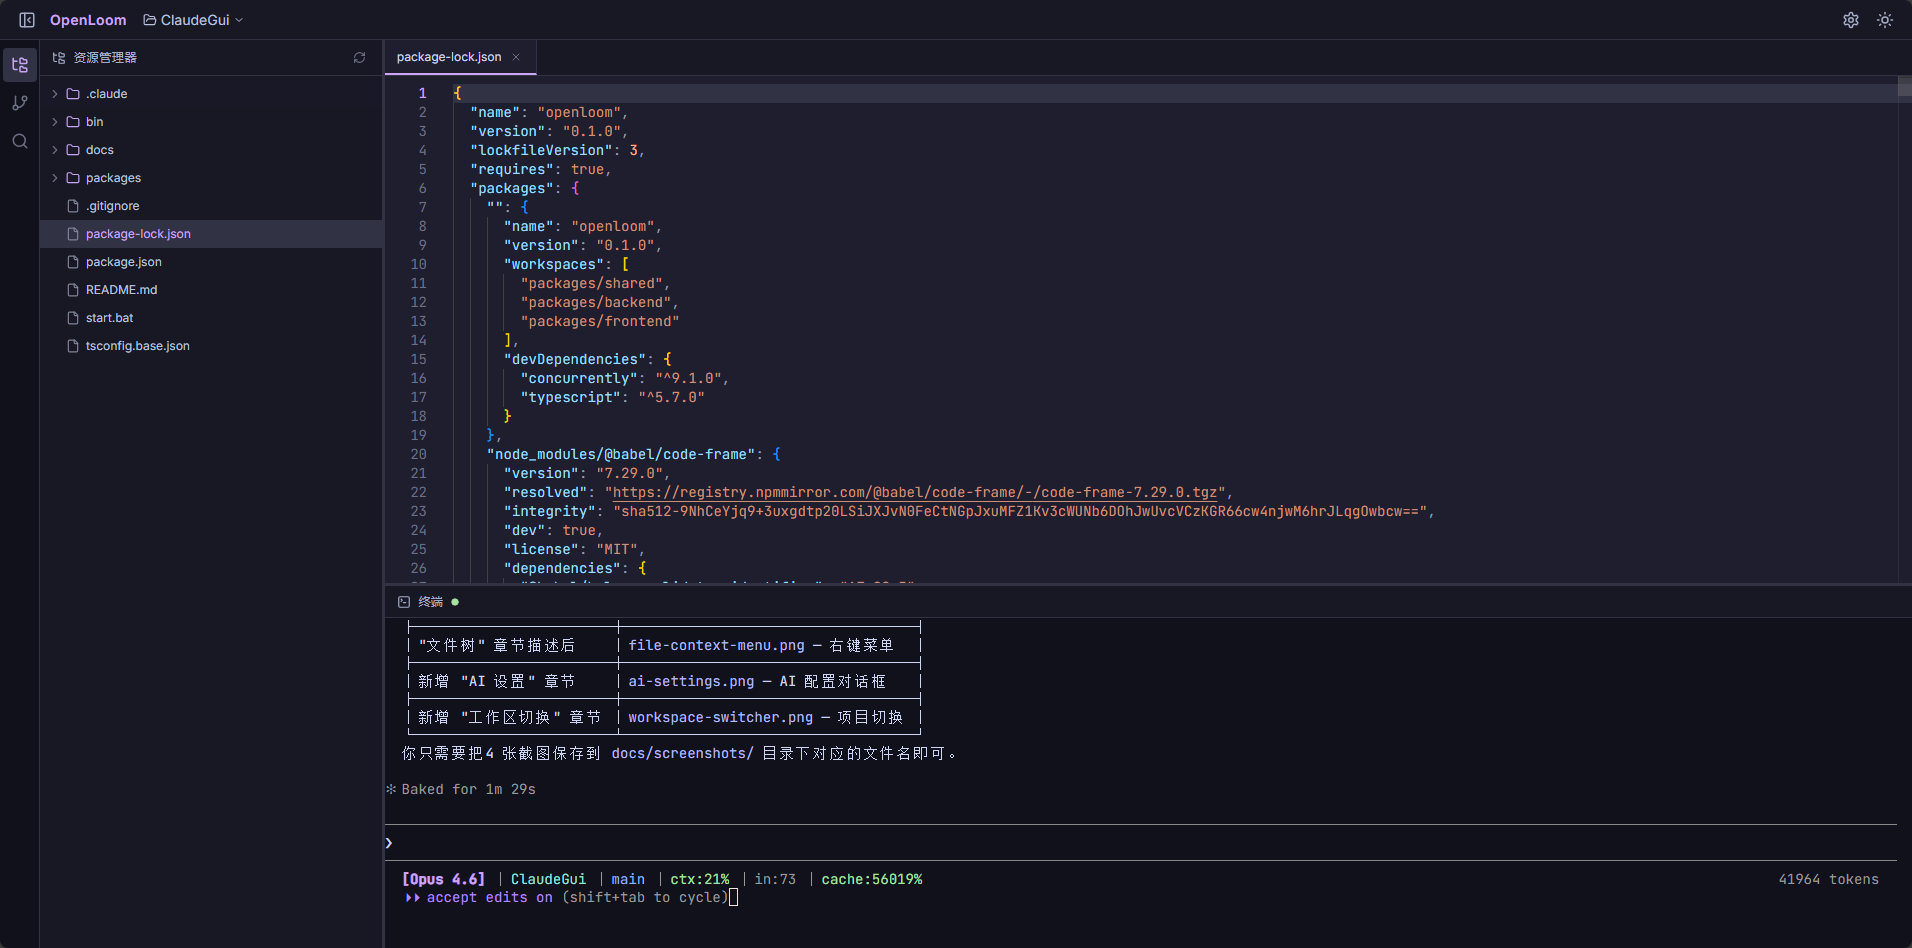
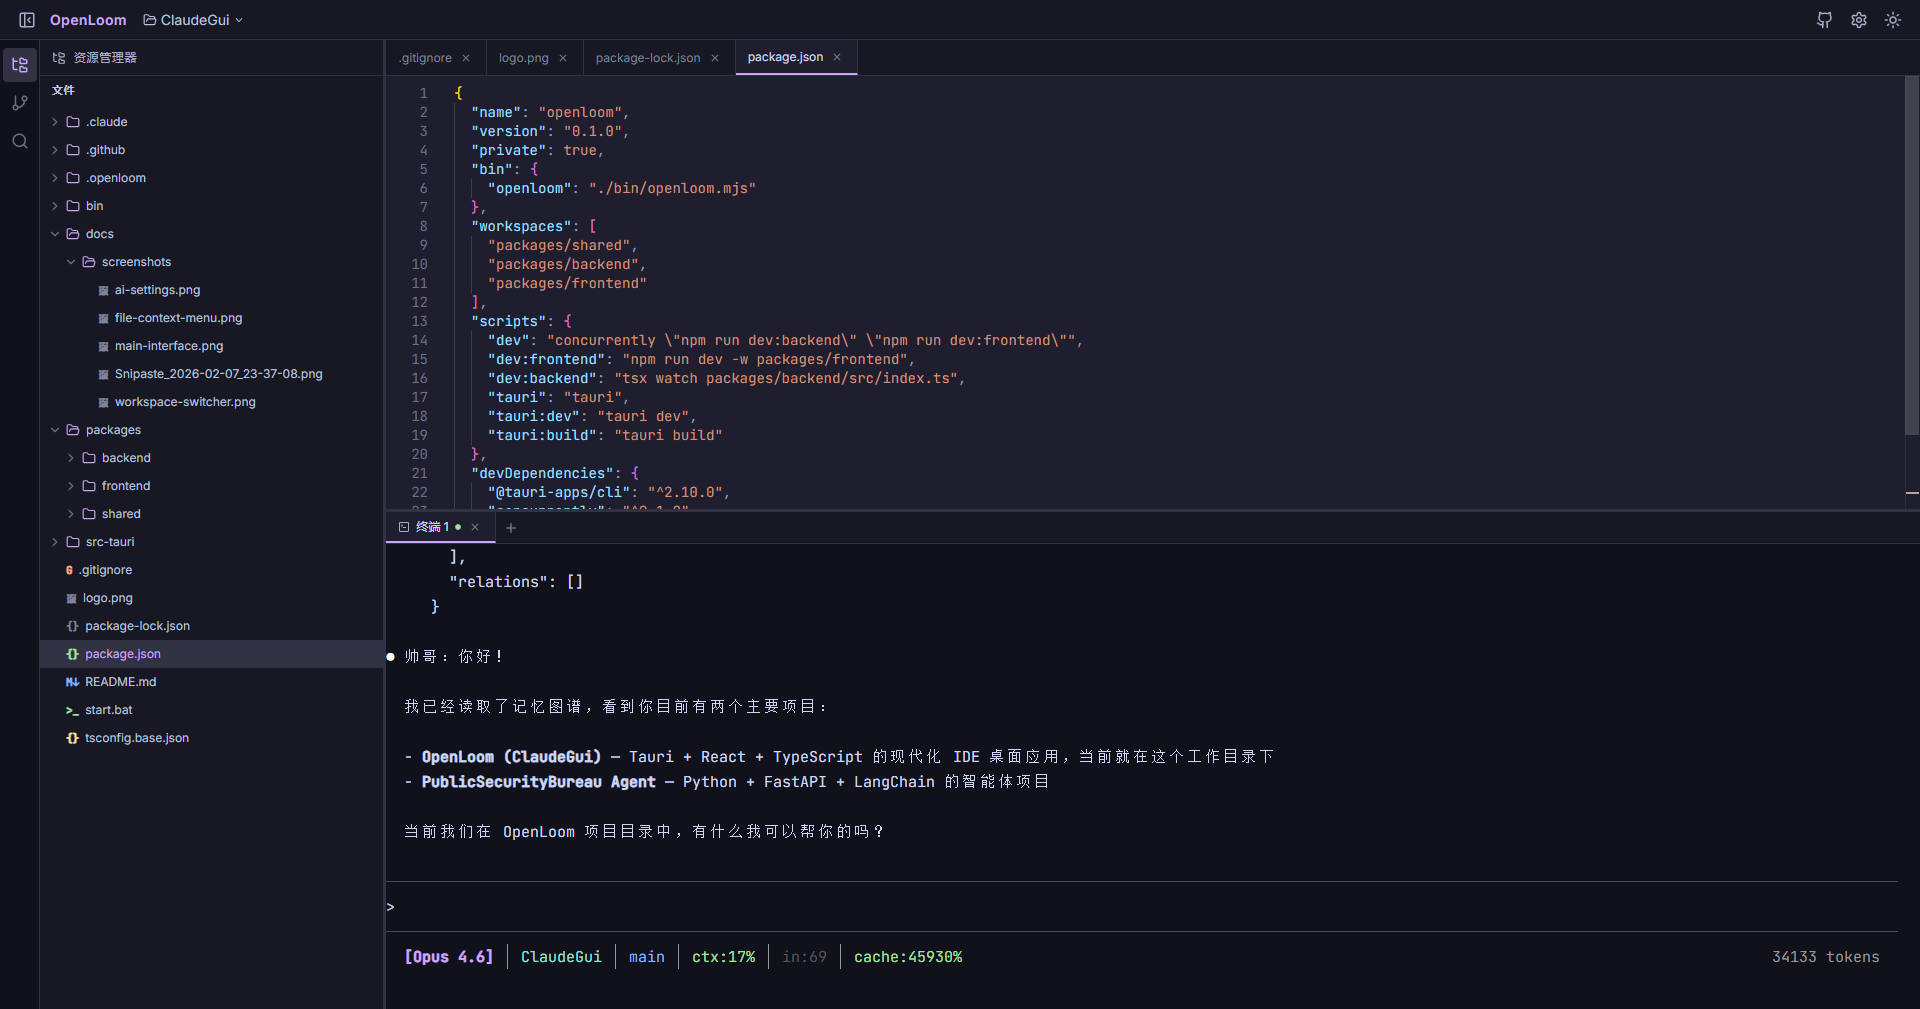
fix(terminal): macOS适配优化及更新截图
- 修复macOS触控板滚动累积问题，避免细粒度deltaY被丢弃
- 字体回退链添加Menlo，优化macOS字体匹配
- 存储PTY子进程句柄，kill时显式终止避免僵尸进程
- 更新主界面、文件树、Git面板截图，新增终端拖拽截图

diff --git a/packages/frontend/src/components/terminal/TerminalInstance.tsx b/packages/frontend/src/components/terminal/TerminalInstance.tsx
@@ -92,7 +92,7 @@ export default function TerminalInstance({ id, visible }: TerminalInstanceProps)
     if (!containerRef.current) return;
 
     const term = new Terminal({
-      fontFamily: "'JetBrains Mono', 'Cascadia Code', 'Fira Code', Consolas, monospace",
+      fontFamily: "'JetBrains Mono', 'Cascadia Code', 'Fira Code', Menlo, Consolas, monospace",
       fontSize: 15,
       lineHeight: 1.25,
       letterSpacing: 0,
@@ -191,10 +191,17 @@ export default function TerminalInstance({ id, visible }: TerminalInstanceProps)
 
     // 手动处理滚轮事件，避免 WebGL canvas 拦截导致滚动失效
     const container = containerRef.current;
+    let scrollAccumulator = 0;
     const onWheel = (e: WheelEvent) => {
       if (term.buffer.active.length > term.rows) {
         e.preventDefault();
-        term.scrollLines(Math.round(e.deltaY / 25));
+        scrollAccumulator += e.deltaY;
+        // macOS 触控板 deltaY 很小（1~5），需要累积；鼠标滚轮 deltaY 较大（100+）
+        const lines = Math.trunc(scrollAccumulator / 25);
+        if (lines !== 0) {
+          scrollAccumulator -= lines * 25;
+          term.scrollLines(lines);
+        }
       }
     };
     container.addEventListener('wheel', onWheel, { passive: false });

diff --git a/src-tauri/src/pty.rs b/src-tauri/src/pty.rs
@@ -1,4 +1,4 @@
-use portable_pty::{native_pty_system, CommandBuilder, MasterPty, PtySize};
+use portable_pty::{native_pty_system, Child, CommandBuilder, MasterPty, PtySize};
 use std::collections::HashMap;
 use std::io::{Read, Write};
 use std::sync::atomic::{AtomicU32, Ordering};
@@ -8,6 +8,7 @@ use tauri::{AppHandle, Emitter};
 struct PtyInstance {
     writer: Box<dyn Write + Send>,
     master: Box<dyn MasterPty + Send>,
+    child: Box<dyn Child + Send + Sync>,
 }
 
 #[derive(Clone, serde::Serialize)]
@@ -66,7 +67,7 @@ impl PtyManager {
             cmd.env("LC_ALL", "en_US.UTF-8");
         }
 
-        let _child = pair.slave.spawn_command(cmd).map_err(|e| e.to_string())?;
+        let child = pair.slave.spawn_command(cmd).map_err(|e| e.to_string())?;
         drop(pair.slave);
 
         let mut reader = pair.master.try_clone_reader().map_err(|e| e.to_string())?;
@@ -75,6 +76,7 @@ impl PtyManager {
         let instance = PtyInstance {
             writer,
             master: pair.master,
+            child,
         };
 
         self.instances.lock().unwrap().insert(id, instance);
@@ -130,7 +132,8 @@ impl PtyManager {
 
     pub fn kill(&self, id: u32) -> Result<(), String> {
         let mut guard = self.instances.lock().unwrap();
-        if guard.remove(&id).is_some() {
+        if let Some(mut inst) = guard.remove(&id) {
+            let _ = inst.child.kill();
             Ok(())
         } else {
             Err(format!("PTY {} not found", id))

diff --git a/README.md b/README.md
@@ -122,10 +122,15 @@ OpenLoom 的核心。基于 **Monaco Editor**——与 VS Code 同款引擎。
 - xterm.js + WebGL 渲染
 - 自动适配面板大小
 - 链接检测，可点击 URL
+- **文件拖拽到终端** — 从文件树拖拽文件到终端，自动粘贴文件路径
+
+![文件拖拽到终端](docs/screenshots/terminal-drag-drop.png)
 
 ### Git 集成
 
 Git 内置于侧栏，无需再切换到终端执行基本操作。
+
+![Git 面板](docs/screenshots/git-panel.png)
 
 - 文件状态总览（已修改、已添加、已删除、未跟踪）
 - 单文件暂存 / 取消暂存
